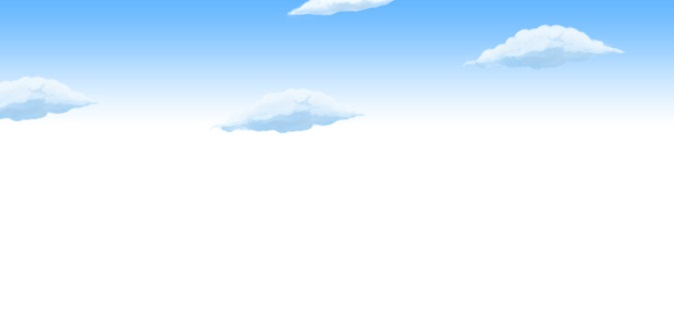
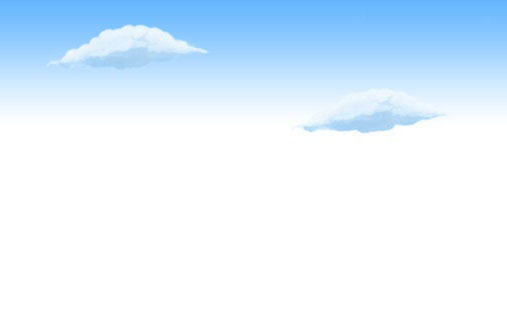
Health + Ammo

diff --git a/src/GameState/MenuState.java b/src/GameState/MenuState.java
@@ -14,7 +14,7 @@ public class MenuState extends GameState {
 	private int currentChoice=0; //La scelta corrente tra i valori della stringa di sotto
 	private String[] options =  {
 			"Start",
-			"Help",
+			//"Help",
 			"Quit"
 	};
 	
@@ -59,7 +59,7 @@ public class MenuState extends GameState {
 		//draw title
 		g.setColor(titleColor);
 		g.setFont(titleFont);
-		g.drawString("Captain Corkleg",80,70);
+		g.drawString("Captain Corkleg",85,70);
 		
 		//draw menu options
 		g.setFont(font);
@@ -70,7 +70,7 @@ public class MenuState extends GameState {
 			else {
 				g.setColor(Color.RED);
 			}
-			g.drawString(options[i], 145, 140+i*15);
+			g.drawString(options[i], 175, 140+i*15);
 		}
 		
 	}

diff --git a/src/GameState/GameOverState.java b/src/GameState/GameOverState.java
@@ -5,6 +5,7 @@ import java.awt.*;
 import java.awt.Graphics2D;
 import java.awt.event.KeyEvent;
 
+import Main.GamePanel;
 import TileMap.Background;
 
 public class GameOverState extends GameState {
@@ -59,7 +60,7 @@ public class GameOverState extends GameState {
 		//draw title
 		g.setColor(titleColor);
 		g.setFont(titleFont);
-		g.drawString("Game Over :(",80,70);
+		g.drawString("Game Over :(",95,70);
 		
 		//draw menu options
 		g.setFont(font);
@@ -70,9 +71,8 @@ public class GameOverState extends GameState {
 			else {
 				g.setColor(Color.RED);
 			}
-			g.drawString(options[i], 145, 140+i*15);
+			g.drawString(options[i], 175, 140+i*15);
 		}
-		
 	}
 
 	

diff --git a/src/Main/GamePanel.java b/src/Main/GamePanel.java
@@ -9,8 +9,8 @@ import GameState.GameStateManager;
 //Pannello dove si visualizza il gioco
 public class GamePanel extends JPanel implements Runnable, KeyListener {
 	//Dimensions
-	public static final int WIDTH=320; // larghezza dello schermo
-	public static final int HEIGHT=240;// altezza schermo
+	public static final int WIDTH=380; // larghezza dello schermo
+	public static final int HEIGHT=250;// altezza schermo
 	public static final int SCALE=2; // fattore di scala, usato per ingrandire lo schermo ( larghezza*2)(altezza*2)
 	
 	//Game Thread

diff --git a/src/GameState/Level1State.java b/src/GameState/Level1State.java
@@ -33,7 +33,7 @@ public class Level1State extends GameState{
 		tileMap.loadTiles("/Tilesets/tileset_sarah.png");
 		tileMap.loadMap("/Maps/map_sarah.txt");
 		tileMap.setTween(1);
-		bg = new Background("/Background/full_background.jpeg",0.5);
+		bg = new Background("/Background/full_background2.jpeg",0.5);
 
 		// Creating main character, enemies and ammo
 		player = new Player(tileMap);

diff --git a/src/Entity/Player.java b/src/Entity/Player.java
@@ -46,7 +46,7 @@ public class Player extends MapObject {
 
         // Init parameters
         moveSpeed = 0.3;
-        maxSpeed = 1.6;
+        maxSpeed = 2.6;
         stopSpeed = 0.4;
         fallSpeed = 0.15;
         maxFallSpeed = 4.0;

diff --git a/src/Main/Game.java b/src/Main/Game.java
@@ -10,6 +10,7 @@ public class Game {
 		window.setDefaultCloseOperation(JFrame.EXIT_ON_CLOSE);
 		window.setResizable(false);
 		window.pack();
+		window.setLocationRelativeTo(null);
 		window.setVisible(true);
 	}
 }
